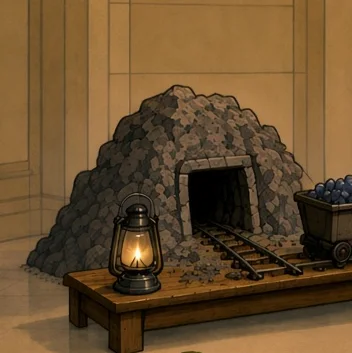
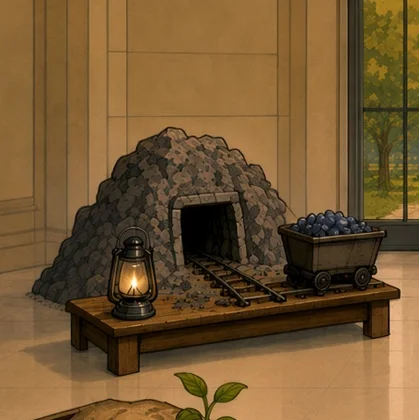
Include the ore cart in the mine hotspot and recrop its card.
The accepted painting is unchanged. The same-name card change bumps the cache name to village-v53.

diff --git a/village/data/sciences.js b/village/data/sciences.js
@@ -1,1 +1,1 @@
-(window.VILLAGE_DATA=window.VILLAGE_DATA||{})["sciences"]={"building": "sciences", "name": "Faculté des Sciences", "main": "sciences", "roomList": [{"key": "sciences", "short": "Les roches"}], "rooms": {"sciences": {"name": "Le hall des roches", "room_id": "R_geology", "image": "sciences/sciences.jpg", "alt": "The ground-floor hall of the science faculty, in ink and gouache, looking toward open glass doors. A rock mound with one tunnel, a lantern and an ore cart sits on a low table. A torn sack of earth spills from a wooden cart, with a seedling in the tear. One low gray stone slab lies on the open floor. A geologist holds a sparkling mineral cluster under a lamp that throws a rainbow. A tall purple crystal stands on the right with a mouse at its base. A rubber boot rests in a tray of soil, the sole toward the viewer, and a worm lifts its head. Through the open doors are a gravel path, autumn trees and the campus telescope.", "nameplate": [16, 7], "mapExit": {"box": [43.75, 3.3333, 16.4062, 31.3889], "label": "Campus", "boxPx": [560, 24, 210, 226]}, "doors": [], "zooms": [], "items": [{"id": "fr_mine_noun", "fr": "mine", "art": "la", "ind": "une", "g": "f", "en": "mine; pencil lead", "ipa": "/min/", "say": "MEEN", "plural": "les mines", "hook": "A tabletop MINE: one short rock tunnel, one lit lantern, and one ore cart on rails. Said MEEN.", "note": null, "ex": ["La mine de mon crayon est cassée.", "My pencil lead is broken."], "box": [6.4062, 20.5556, 23.3594, 25.0], "cefr": "A2", "label": [18.0859, 46.1111], "labelPx": [185.0, 332, 93, 29], "boxPx": [82, 148, 299, 180], "side": "L", "cardSrc": "sciences/cards/fr_mine_noun.webp"}, {"id": "fr_terre_noun", "fr": "terre", "art": "la", "ind": "une", "g": "f", "en": "earth; ground", "ipa": "/tɛʁ/", "say": "TEHR", "plural": "les terres", "hook": "TEHR sounds like tear: a torn sack of EARTH spills dark soil, and a seedling pokes through the tear.", "note": null, "ex": ["La balle est tombée par terre.", "The ball fell on the ground."], "box": [8.125, 56.9444, 22.8125, 35.8333], "cefr": "A1", "label": [19.5312, 93.3333], "labelPx": [204.0, 672, 92, 29], "boxPx": [104, 410, 292, 258], "side": "L", "cardSrc": "sciences/cards/fr_terre_noun.webp"}, {"id": "fr_pierre_noun", "fr": "pierre", "art": "la", "ind": "une", "g": "f", "en": "stone", "ipa": "/pjɛʁ/", "say": "PYEHR", "plural": "les pierres", "hook": "PYEHR: one dressed building STONE, a sawn block.", "note": null, "ex": ["Le mur est en pierre.", "The wall is made of stone."], "box": [32.5, 76.8056, 13.9062, 16.6667], "cefr": "A1", "phrases": [{"fr": "faire d'une pierre deux coups", "en": "to kill two birds with one stone", "lit": "to do two hits with one stone"}], "label": [39.4531, 94.0278], "labelPx": [453.5, 677, 103, 29], "boxPx": [416, 553, 178, 120], "side": "L", "cardSrc": "sciences/cards/fr_pierre_noun.webp"}, {"id": "fr_mineral_adj", "adj": true, "fr": "minéral", "g": "adj", "en": "mineral", "ipa": "/mi.ne.ʁal/", "say": "mee-nay-RAHL", "forms": {"m_sg": "minéral", "f_sg": "minérale", "m_pl": "minéraux", "f_pl": "minérales"}, "invariable": false, "hook": "mee-nay-RAHL, like English mineral: a sparkling MINERAL cluster throws a small rainbow under the lamp while the geologist holds the cluster in both hands.", "note": null, "ex": ["Je bois de l'eau minérale.", "I drink mineral water."], "box": [43.5156, 37.7778, 21.7188, 34.7222], "cefr": "B2", "label": [54.375, 73.0556], "labelPx": [648.0, 526, 96, 29], "boxPx": [557, 272, 278, 250], "side": "C", "cardSrc": "sciences/cards/fr_mineral_adj.webp"}, {"id": "fr_cristal_noun", "fr": "cristal", "art": "le", "ind": "un", "g": "m", "en": "crystal", "ipa": "/kʁis.tal/", "say": "krees-TAHL", "plural": "les cristaux", "hook": "krees-TAHL, like English crystal, and TAHL is in TALL: a TALL purple CRYSTAL on a stand, with a teacup-sized mouse at its base.", "note": null, "ex": ["Ces verres sont en cristal.", "These glasses are made of crystal."], "box": [79.2969, 14.1667, 12.0312, 38.75], "cefr": "B2", "label": [85.3125, 53.4722], "labelPx": [1039.5, 385, 105, 29], "boxPx": [1015, 102, 154, 279], "side": "R", "cardSrc": "sciences/cards/fr_cristal_noun.webp"}, {"id": "fr_sol_noun", "fr": "sol", "art": "le", "ind": "un", "g": "m", "en": "soil, earth; ground", "ipa": "/sɔl/", "say": "SOL", "plural": "les sols", "hook": "SOL sounds like sole: a rubber boot's SOLE pressed into a tray of dark SOIL, and one worm lifts its head.", "note": null, "ex": ["Ne mets pas ton sac sur le sol.", "Don't put your bag on the ground."], "box": [71.875, 60.4167, 17.9688, 29.1667], "cefr": "A2", "label": [80.8594, 90.1389], "labelPx": [999.0, 649, 72, 29], "boxPx": [920, 435, 230, 210], "side": "R", "cardSrc": "sciences/cards/fr_sol_noun.webp"}], "parent": null}}, "hubParents": {}, "building_id": "B35_sciences", "sector_id": "S10_university"};
+(window.VILLAGE_DATA=window.VILLAGE_DATA||{})["sciences"]={"building": "sciences", "name": "Faculté des Sciences", "main": "sciences", "roomList": [{"key": "sciences", "short": "Les roches"}], "rooms": {"sciences": {"name": "Le hall des roches", "room_id": "R_geology", "image": "sciences/sciences.jpg", "alt": "The ground-floor hall of the science faculty, in ink and gouache, looking toward open glass doors. A rock mound with one tunnel, a lantern and an ore cart sits on a low table. A torn sack of earth spills from a wooden cart, with a seedling in the tear. One low gray stone slab lies on the open floor. A geologist holds a sparkling mineral cluster under a lamp that throws a rainbow. A tall purple crystal stands on the right with a mouse at its base. A rubber boot rests in a tray of soil, the sole toward the viewer, and a worm lifts its head. Through the open doors are a gravel path, autumn trees and the campus telescope.", "nameplate": [16, 7], "mapExit": {"box": [43.75, 3.3333, 16.4062, 31.3889], "label": "Campus", "boxPx": [560, 24, 210, 226]}, "doors": [], "zooms": [], "items": [{"id": "fr_mine_noun", "fr": "mine", "art": "la", "ind": "une", "g": "f", "en": "mine; pencil lead", "ipa": "/min/", "say": "MEEN", "plural": "les mines", "hook": "A tabletop MINE: one short rock tunnel, one lit lantern, and one ore cart on rails. Said MEEN.", "note": null, "ex": ["La mine de mon crayon est cassée.", "My pencil lead is broken."], "box": [6.4062, 20.5556, 30.1562, 24.5833], "cefr": "A2", "label": [21.4844, 45.6944], "labelPx": [228.5, 329, 93, 29], "boxPx": [82, 148, 386, 177], "side": "L", "cardSrc": "sciences/cards/fr_mine_noun.webp"}, {"id": "fr_terre_noun", "fr": "terre", "art": "la", "ind": "une", "g": "f", "en": "earth; ground", "ipa": "/tɛʁ/", "say": "TEHR", "plural": "les terres", "hook": "TEHR sounds like tear: a torn sack of EARTH spills dark soil, and a seedling pokes through the tear.", "note": null, "ex": ["La balle est tombée par terre.", "The ball fell on the ground."], "box": [8.125, 56.9444, 22.8125, 35.8333], "cefr": "A1", "label": [19.5312, 93.3333], "labelPx": [204.0, 672, 92, 29], "boxPx": [104, 410, 292, 258], "side": "L", "cardSrc": "sciences/cards/fr_terre_noun.webp"}, {"id": "fr_pierre_noun", "fr": "pierre", "art": "la", "ind": "une", "g": "f", "en": "stone", "ipa": "/pjɛʁ/", "say": "PYEHR", "plural": "les pierres", "hook": "PYEHR: one dressed building STONE, a sawn block.", "note": null, "ex": ["Le mur est en pierre.", "The wall is made of stone."], "box": [32.5, 76.8056, 13.9062, 16.6667], "cefr": "A1", "phrases": [{"fr": "faire d'une pierre deux coups", "en": "to kill two birds with one stone", "lit": "to do two hits with one stone"}], "label": [39.4531, 94.0278], "labelPx": [453.5, 677, 103, 29], "boxPx": [416, 553, 178, 120], "side": "L", "cardSrc": "sciences/cards/fr_pierre_noun.webp"}, {"id": "fr_mineral_adj", "adj": true, "fr": "minéral", "g": "adj", "en": "mineral", "ipa": "/mi.ne.ʁal/", "say": "mee-nay-RAHL", "forms": {"m_sg": "minéral", "f_sg": "minérale", "m_pl": "minéraux", "f_pl": "minérales"}, "invariable": false, "hook": "mee-nay-RAHL, like English mineral: a sparkling MINERAL cluster throws a small rainbow under the lamp while the geologist holds the cluster in both hands.", "note": null, "ex": ["Je bois de l'eau minérale.", "I drink mineral water."], "box": [43.5156, 37.7778, 21.7188, 34.7222], "cefr": "B2", "label": [54.375, 73.0556], "labelPx": [648.0, 526, 96, 29], "boxPx": [557, 272, 278, 250], "side": "C", "cardSrc": "sciences/cards/fr_mineral_adj.webp"}, {"id": "fr_cristal_noun", "fr": "cristal", "art": "le", "ind": "un", "g": "m", "en": "crystal", "ipa": "/kʁis.tal/", "say": "krees-TAHL", "plural": "les cristaux", "hook": "krees-TAHL, like English crystal, and TAHL is in TALL: a TALL purple CRYSTAL on a stand, with a teacup-sized mouse at its base.", "note": null, "ex": ["Ces verres sont en cristal.", "These glasses are made of crystal."], "box": [79.2969, 14.1667, 12.0312, 38.75], "cefr": "B2", "label": [85.3125, 53.4722], "labelPx": [1039.5, 385, 105, 29], "boxPx": [1015, 102, 154, 279], "side": "R", "cardSrc": "sciences/cards/fr_cristal_noun.webp"}, {"id": "fr_sol_noun", "fr": "sol", "art": "le", "ind": "un", "g": "m", "en": "soil, earth; ground", "ipa": "/sɔl/", "say": "SOL", "plural": "les sols", "hook": "SOL sounds like sole: a rubber boot's SOLE pressed into a tray of dark SOIL, and one worm lifts its head.", "note": null, "ex": ["Ne mets pas ton sac sur le sol.", "Don't put your bag on the ground."], "box": [71.875, 60.4167, 17.9688, 29.1667], "cefr": "A2", "label": [80.8594, 90.1389], "labelPx": [999.0, 649, 72, 29], "boxPx": [920, 435, 230, 210], "side": "R", "cardSrc": "sciences/cards/fr_sol_noun.webp"}], "parent": null}}, "hubParents": {}, "building_id": "B35_sciences", "sector_id": "S10_university"};

diff --git a/village/sw.js b/village/sw.js
@@ -5,7 +5,7 @@
 // only the offline fallback.
 // Bump V whenever a deploy changes an existing image/card (check_v2.py --cache-base enforces this at pack time):
 // the new worker deletes every older cache on activate and takes over open pages at once.
-var V='village-v52', SHELL=['./','index.html','app.js','extras.js','practice.js','style.css','icons.js','data/map.js','data/live.js','manifest.webmanifest','icon.svg'];
+var V='village-v53', SHELL=['./','index.html','app.js','extras.js','practice.js','style.css','icons.js','data/map.js','data/live.js','manifest.webmanifest','icon.svg'];
 self.addEventListener('install',function(e){ e.waitUntil(caches.open(V).then(function(c){return c.addAll(SHELL.map(function(u){return new Request(u,{cache:'reload'})}))}).then(function(){return self.skipWaiting()})) });
 self.addEventListener('activate',function(e){ e.waitUntil(caches.keys().then(function(k){return Promise.all(k.filter(function(n){return n!==V}).map(function(n){return caches.delete(n)}))}).then(function(){return self.clients.claim()})) });
 self.addEventListener('fetch',function(e){ var r=e.request; if(r.method!=='GET'||new URL(r.url).origin!==location.origin) return;

diff --git a/tools/tests/test_sciences_hall.py b/tools/tests/test_sciences_hall.py
@@ -137,6 +137,7 @@ class ScienceHallPilot(unittest.TestCase):
         payload = (ROOT / "village/data/sciences.js").read_text()
         for wid in ("fr_mine_noun", "fr_terre_noun", "fr_pierre_noun", "fr_mineral_adj", "fr_cristal_noun", "fr_sol_noun"):
             self.assertIn(wid, payload)
+        self.assertIn('"boxPx": [82, 148, 386, 177]', payload)
 
     def test_parked_exit_omits_the_sector_image(self):
         parked = json.loads((REVIEW / "parked-eight.manifest.json").read_text())
